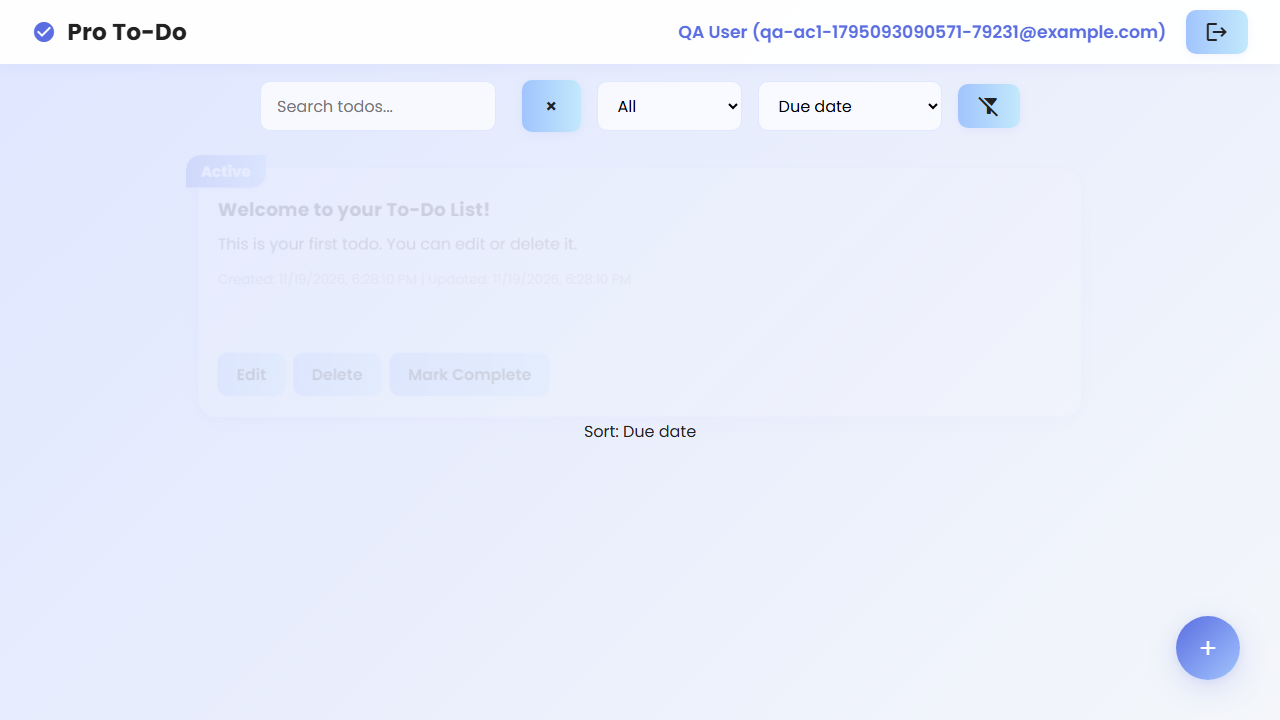
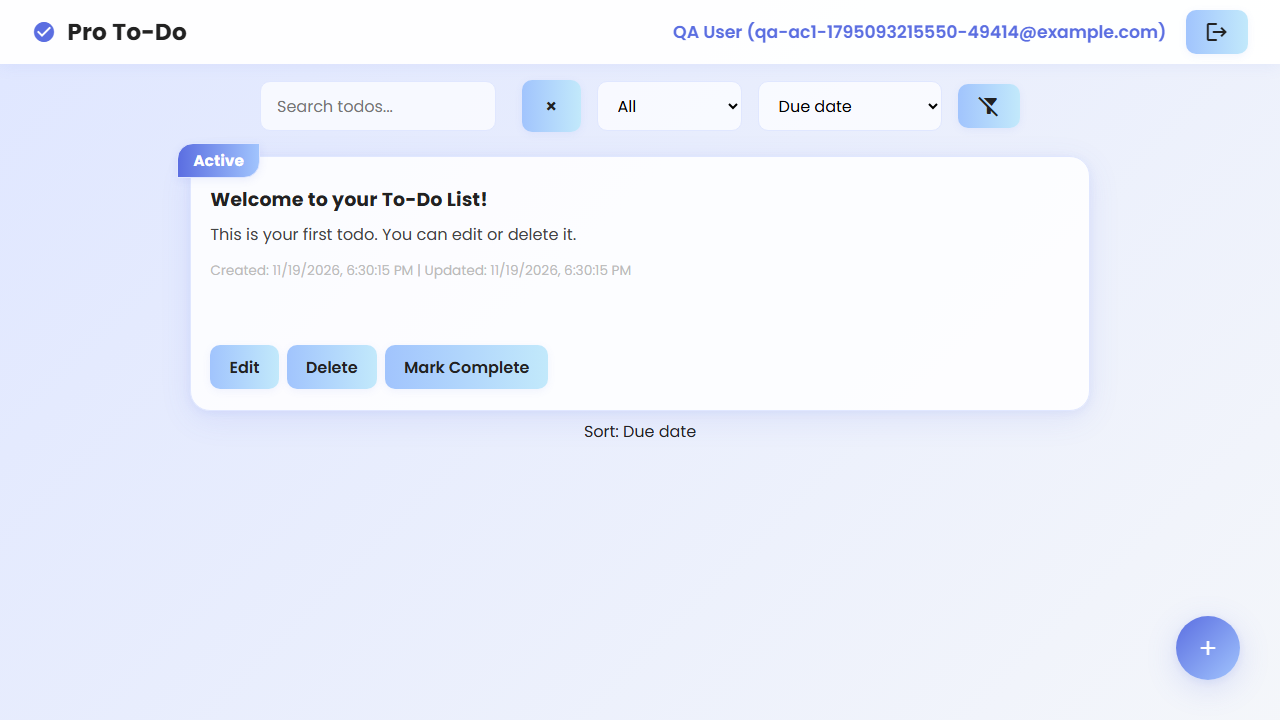
Capture settled UI in KAN-152 E2E screenshots

Changed region(s): [[0.125, 0.1833, 0.5, 0.3972], [0.1562, 0.4583, 0.4375, 0.55], [0.5312, 0.0306, 0.8125, 0.0611]]

diff --git a/qa/e2e/dueDateSort.spec.js b/qa/e2e/dueDateSort.spec.js
@@ -65,7 +65,7 @@ test.describe('KAN-152 E2E: Due date sort', () => {
     await selectDueDateSort(page);
     await expect(sort).toHaveValue('dueDate');
     await expect(page.locator('#filter-sort-feedback')).toContainText(`Sort: ${SORT_LABEL}`);
-    await page.screenshot({ path: path.join(SHOT_DIR, 'ac1-sort-control.png') });
+    await page.screenshot({ path: path.join(SHOT_DIR, 'ac1-sort-control.png'), animations: 'disabled' });
   });
 
   test('[E2E-AC2-01] Selecting "Due date" reorders todos by due date ascending', async ({ page, request }) => {
@@ -81,7 +81,7 @@ test.describe('KAN-152 E2E: Due date sort', () => {
 
     await selectDueDateSort(page);
     await expect(titles(page)).toHaveText(['QA Soonest', 'QA Middle', 'QA Later', WELCOME]);
-    await page.screenshot({ path: path.join(SHOT_DIR, 'ac2-sorted-by-due-date.png') });
+    await page.screenshot({ path: path.join(SHOT_DIR, 'ac2-sorted-by-due-date.png'), animations: 'disabled' });
   });
 
   test('[E2E-AC2-02] Due date sort stays applied after a page reload (session persistence)', async ({ page, request }) => {
@@ -117,7 +117,7 @@ test.describe('KAN-152 E2E: Due date sort', () => {
     for (const t of ['QA Undated A', 'QA Undated B', WELCOME]) {
       await expect(page.getByTestId('todo-card').filter({ hasText: t }).first()).toBeVisible();
     }
-    await page.screenshot({ path: path.join(SHOT_DIR, 'ac3-undated-last.png') });
+    await page.screenshot({ path: path.join(SHOT_DIR, 'ac3-undated-last.png'), animations: 'disabled' });
   });
 
   test('[E2E-AC3-02] Placement of undated todos is deterministic across re-sorts and reloads', async ({ page, request }) => {
